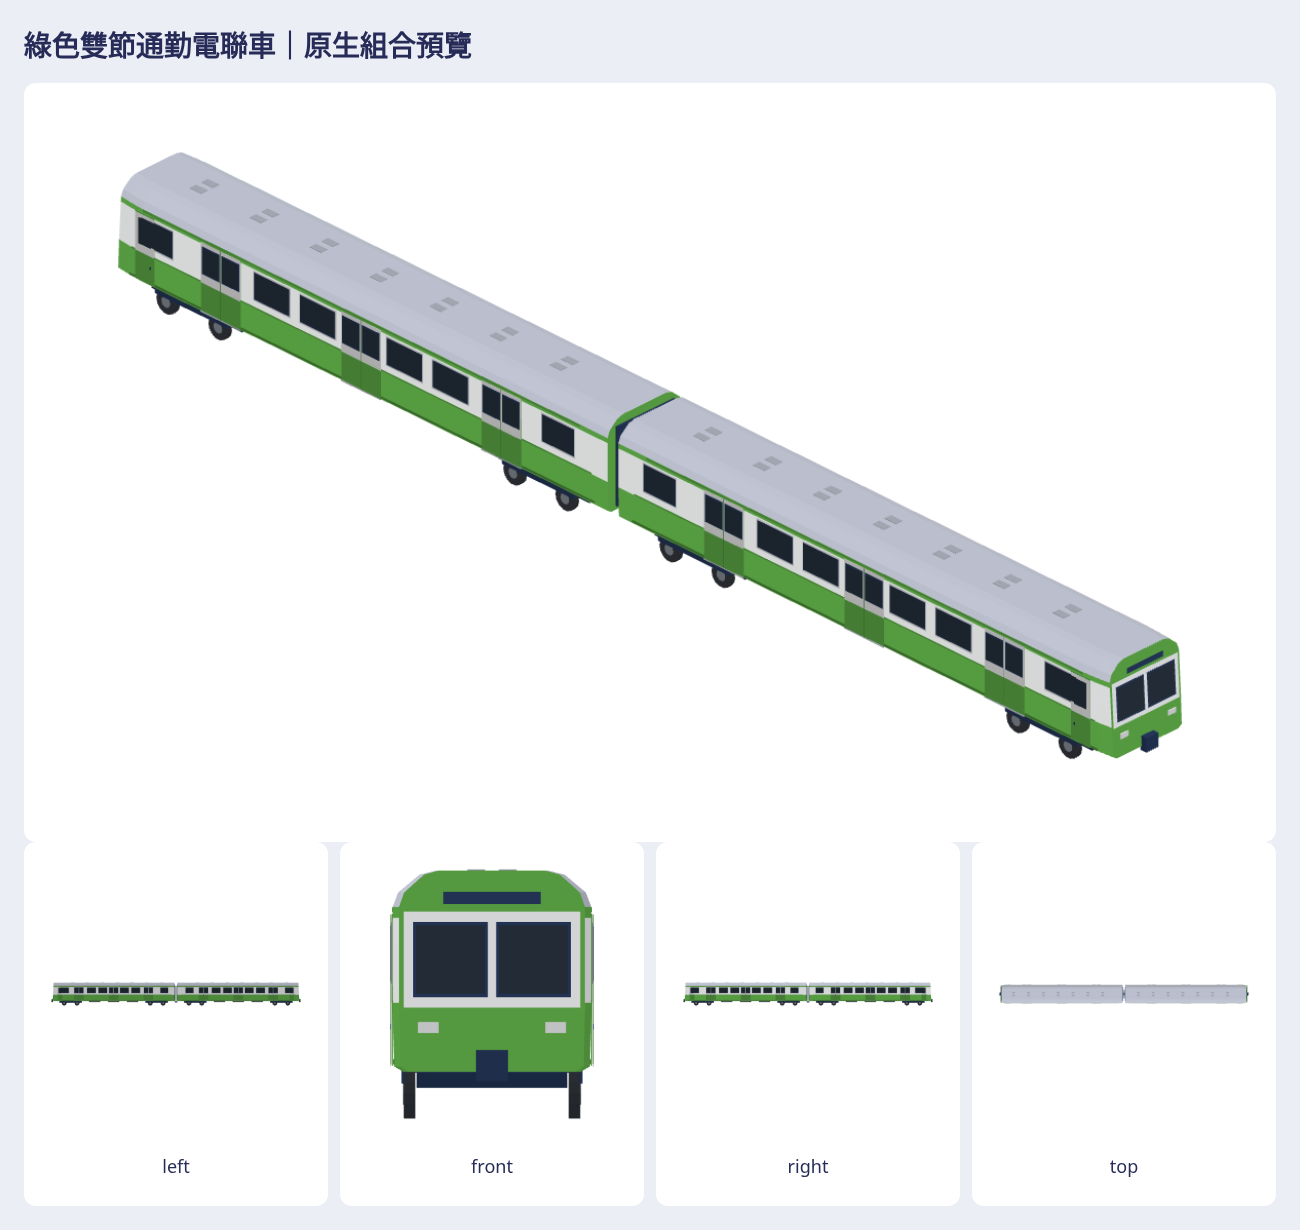
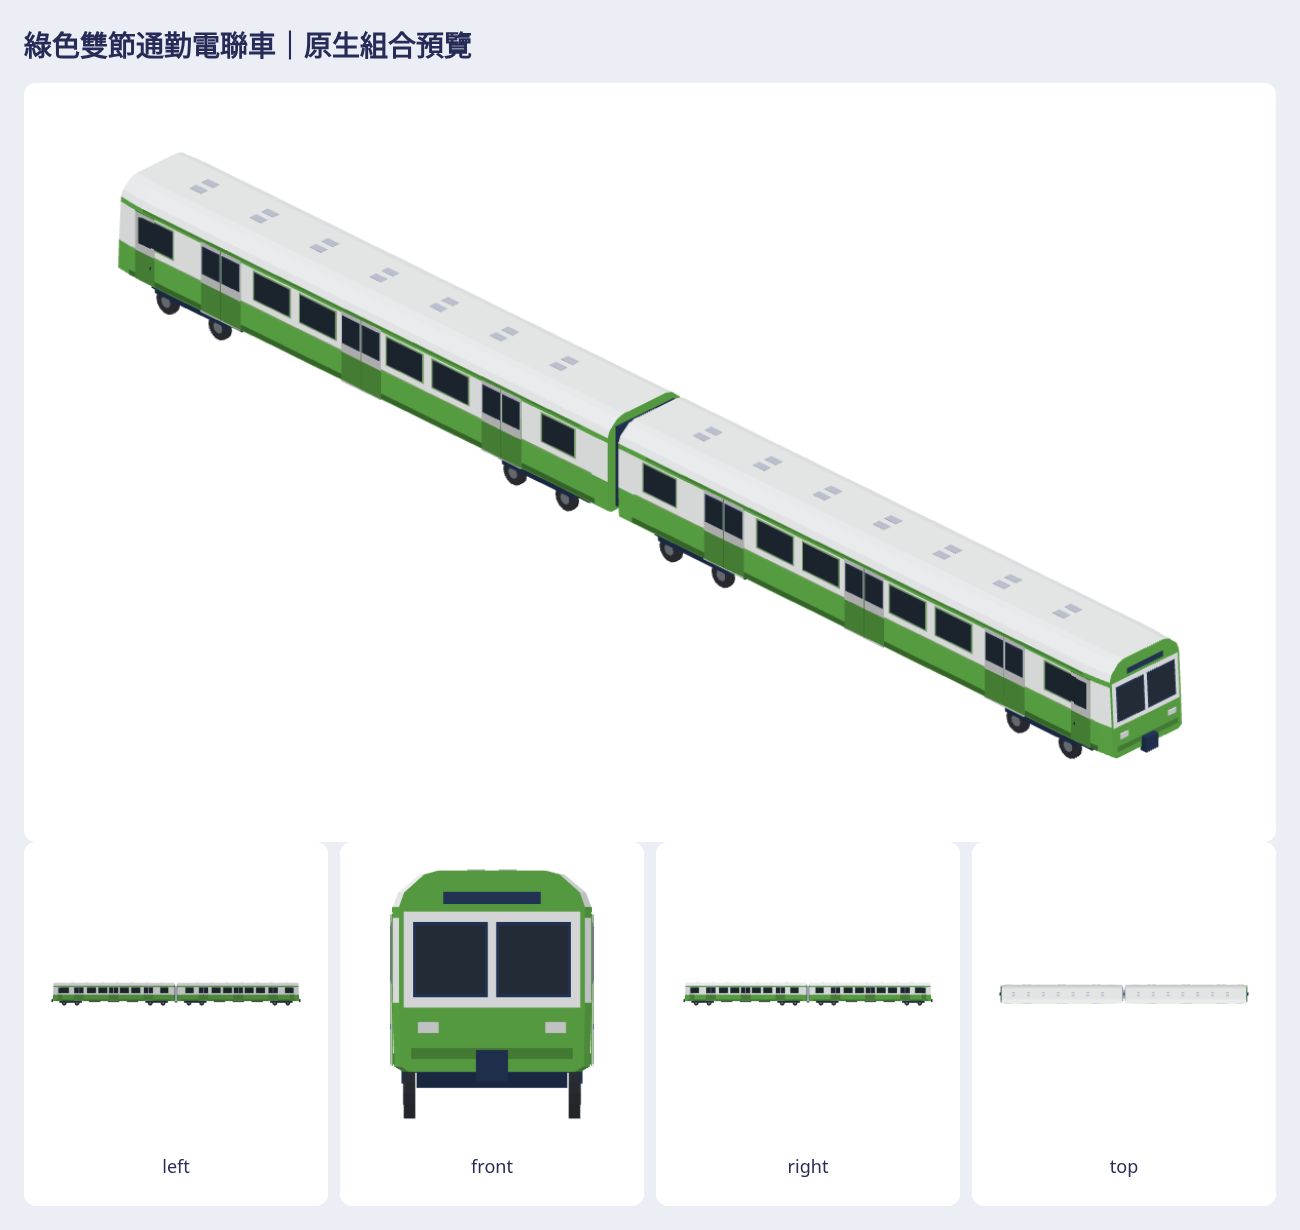
Refine commuter train palette for game style
Agent: Codex

diff --git a/Sources/GamePresentation/Map3DGreenCommuter.swift b/Sources/GamePresentation/Map3DGreenCommuter.swift
@@ -10,7 +10,7 @@ public enum Map3DGreenCommuter {
     public static let roofHeight: Float = 3.63
     public static let green = Map3DPalette.crown
     public static let cream = Map3DPalette.tileWhite
-    public static let roof = Map3DPalette.roof
+    public static let roof = Map3DPalette.tileWhite
     public static let glass = Map3DTrainStyle.glass
 
     public enum Unit: String, CaseIterable, Sendable { case leading, trailing }
@@ -34,6 +34,8 @@ extension StationKitBuilder {
         let green = Map3DGreenCommuter.green
         let cream = Map3DGreenCommuter.cream
         let grey = Map3DGreenCommuter.roof
+        let pale = Map3DPalette.park
+        let skirt = Map3DColor.shaded(green, 0.79)
         let glass = Map3DGreenCommuter.glass
         let ink = Self.ink
         let steel = Self.steel
@@ -65,6 +67,7 @@ extension StationKitBuilder {
                 switch i {
                 case 2,12: color = cream
                 case 4...10: color = grey
+                case 0,14,15: color = skirt
                 default: color = green
                 }
                 let a = rings[k][i], b = rings[k][j]
@@ -101,12 +104,12 @@ extension StationKitBuilder {
         // cab access door is separate and only at the outer driving end.
         for side: Float in [-1,1] {
             box(0,3.02,side*1.448,17.12,0.020,0.075,green)
-            box(0,1.70,side*1.450,18.05,0.014,0.045,green)
-            box(0,0.80,side*1.434,18.25,0.014,0.075,Map3DColor.shaded(green,0.82))
+            box(0,1.70,side*1.450,18.05,0.014,0.045,pale)
+            box(0,0.80,side*1.434,18.25,0.014,0.16,skirt)
             let windows: [(Float,Float)] = [(-8.02,1.25),(-3.50,1.38),(-1.70,1.38),
                                              (1.70,1.38),(3.50,1.38),(7.72,1.26)]
             for (x,width) in windows {
-                box(x,1.94,side*1.455,width+0.07,0.012,0.96,cream)
+                box(x,1.94,side*1.455,width+0.11,0.012,0.96,pale)
                 box(x,1.99,side*1.464,width,0.008,0.86,ink)
                 box(x,2.02,side*1.470,width-0.05,0.006,0.81,glass)
             }
@@ -140,6 +143,7 @@ extension StationKitBuilder {
             face(p,inside:centre,color:color)
         }
         panel(1.63,3.03,-1.29,1.29,0.010,cream)
+        panel(0.88,1.04,-1.18,1.18,0.020,skirt)
         for side: Float in [-1,1] {
             let z0: Float = side < 0 ? -1.15 : 0.06
             let z1: Float = side < 0 ? -0.06 : 1.15
@@ -159,7 +163,7 @@ extension StationKitBuilder {
         // Shallow roof inspection covers seen in both oblique references.
         for x: Float in [-7.60,-5.25,-2.90,-0.55,1.80,4.15,6.50] {
             for z: Float in [-0.23,0.23] {
-                box(x,3.628,z,0.45,0.26,0.018,Map3DColor.shaded(grey,0.86))
+                box(x,3.628,z,0.45,0.26,0.018,Map3DPalette.roof)
             }
         }
     }

diff --git a/docs/art/green-commuter-2026-10-22/README.md b/docs/art/green-commuter-2026-10-22/README.md
@@ -14,20 +14,21 @@
 | 車體 | 平直長側面、頂部圓肩與中央平頂；內端直立，外端最後約 1.1 m 略收至較窄的平鈍駕駛面 | 圖 1–5；參考前端並非流線長鼻 |
 | 走行 | 每節兩組雙軸轉向架，轉向架中心在單元 x=±6.80 m，各自軸距約 2.04 m；輪半徑約 0.38 m | 依側視圖的四個輪位與專案展示比例推估，不能當真車軸距 |
 | 門窗 | 每側三組雙扇乘客門、駕駛端一扇窄側門；淺色帶內六組主要窗區；前端兩片風擋 | 圖 1、2 的門窗節奏及圖 3–5 的端面 |
-| 車頂 | 灰色圓肩、規律成對的小型檢修蓋板；無集電弓 | 圖 3–5；設備用途無法確定，因此只作蓋板 |
+| 車頂 | 圓肩、規律成對的小型檢修蓋板；無集電弓 | 圖 3–5；設備用途無法確定，因此只作蓋板。屋頂改用遊戲既有暖白色票 |
 
 精確製造型號、電氣設備、車端內部連接構造、實際長寬高與營運編組未在圖中給出。本模型是依參考的遊戲比例重建，不用透視圖像素宣稱工程尺寸。
 
 ## 外觀檢查
 
-同一份原生模型輸出私有 `previews/clay-{left,front,isometric}.png`、`silhouette-*`、`overview.png`、`directions.png`、`units.png`、`style-comparison.png` 及每件模型的七向 PNG。斜視參考圖是透視相機，原生 viewer 的 `isometric` 是正交相機；這項視角差異保留明記。因聊天附圖沒有可讀的本地檔案，沒有原圖逐像素疊圖，也沒有把私有原圖加入任何 ZIP。
+同一份原生模型輸出私有 `previews/clay-{left,front,isometric}.png`、`silhouette-*`、`overview.png`、`directions.png`、`units.png`、`style-comparison.png` 及每件模型的七向 PNG。針對作者的配色意見，`previews/before-after.png` 用修正前後的原生編組、固定公尺尺度與同一相機，比較側面、正面、斜視：屋頂從冷灰改遊戲暖白，側窗有淡綠框，下緣改深綠，正面下方也收以深綠。斜視參考圖是透視相機，原生 viewer 的 `isometric` 是正交相機；這項視角差異保留明記。因聊天附圖沒有可讀的本地檔案，沒有原圖逐像素疊圖，也沒有把私有原圖加入任何 ZIP。
 
 | 狀態 | 具體核對 |
 | --- | --- |
 | 已符合 | 圖 3、4 的兩節長車體、近直立雙端駕駛面與窄節間；見 `units.png`、編組立體與前／後視。內端沒有多餘駕駛窗。 |
 | 已符合 | 圖 1、2 的每節三組乘客雙門、靠駕駛端窄側門、長矩形側窗、淺色窗區／綠下半身；見編組左／右正交圖。 |
-| 已符合 | 圖 3–5 的灰色圓肩屋頂、重複小蓋板與每節兩組雙軸轉向架；見俯視、斜視、下視。 |
-| 仍不符合 | 參考屋頂比遊戲色票更深；這裡採 `Map3DPalette.roof` 的較淺霧面灰。車底設備和輪框只保留能辨識的主塊，較參考簡化。 |
+| 已符合 | 圖 3–5 的圓肩屋頂、重複小蓋板與每節兩組雙軸轉向架；見俯視、斜視、下視。 |
+| 已符合 | 作者要求的遊戲配色：暖白屋頂、淡綠窗框、深綠下緣；見同相機 `before-after.png` 與既有通勤車同尺度 `style-comparison.png`。 |
+| 仍不符合 | 參考屋頂較深；此版依作者要求採 `Map3DPalette.tileWhite`，保留小蓋板辨識。車底設備和輪框只保留能辨識的主塊，較參考簡化。 |
 | 資料不足 | 製造型號、工程尺寸、轉向架設備、不可見的內端細部與屋頂蓋板用途，均不作真車宣稱。 |
 
 車長、車寬、輪徑、車頭長度及門窗節奏已人工對照；沒有捏造相似度分數或宣稱作者已認可。同尺度風格圖拿新前端單元與專案既有 `commuter-cab` 在同公尺相機下比較，沒有各別縮放。

diff --git a/tools/green-commuter/README.md b/tools/green-commuter/README.md
@@ -8,13 +8,14 @@ Use Swift 6.4 and rebuild outside the public repository:
 tools/green-commuter/export.sh /path/outside/public/repo/green-commuter
 node tools/green-commuter/render.mjs /path/outside/public/repo/green-commuter
 node tools/green-commuter/clay.mjs /path/outside/public/repo/green-commuter
+node tools/green-commuter/feedback-compare.mjs /path/outside/public/repo/green-commuter /path/to/prior-export
 node tools/green-commuter/verify.mjs /path/outside/public/repo/green-commuter
 python3 tools/green-commuter/verify-png.py /path/outside/public/repo/green-commuter
 node tools/green-commuter/browser-check.mjs /path/outside/public/repo/green-commuter
 python3 tools/green-commuter/bundle.py /path/outside/public/repo/green-commuter <actual-public-producer-commit>
 ```
 
-The exporter creates 3 new native models, 2 existing project style comparisons, 5 embedded GLB and 35 transparent seven-direction PNGs. The WebGL viewer loads native model vertices. Preview PNGs fit each model independently; `previews/style-comparison.png` fixes a single camera in metre coordinates.
+The exporter creates 3 new native models, 2 existing project style comparisons, 5 embedded GLB and 35 transparent seven-direction PNGs. The WebGL viewer loads native model vertices. Preview PNGs fit each model independently; `previews/style-comparison.png` fixes a single camera in metre coordinates. The optional feedback comparison reads a prior exported native formation and renders both versions with identical metre bounds in left, front and isometric views; it never copies the prior model into the bundle.
 
 Assembly: nominal body length 19.30 m. Unit centres are x=+9.86 and −9.86 m, +x toward the leading cab, with a nominal 0.42 m body gap. No unit is rotated. Both inward ends have gangway faces and couplers; both outward ends have cabs. Each unit has two two-axle bogies, with wheel pairs at local x = ±(6.80 ± 1.02) m. Rail datum is native z=0. This is static geometry without doors, wheels, coupling or pantograph animation.
 
